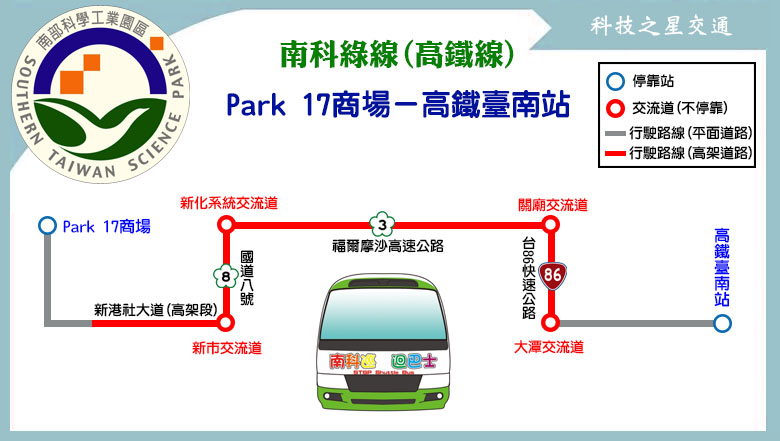
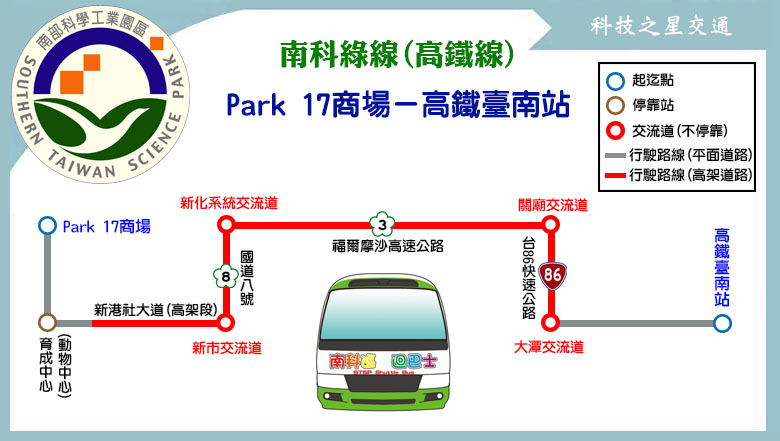
新增站點：南科綠線(育成中心/動物中心)；站位更名：20、紅10(「大眾證卷公司」更名為「永大公園」、「鄭耳鼻喉科」更名為「下巷仔」)

Changed region(s): [[0.7692, 0.1474, 0.9846, 0.4422], [0.0308, 0.7075, 0.0923, 0.9138]]

diff --git a/route/fare_and_time/STSP_green.js b/route/fare_and_time/STSP_green.js
@@ -1,8 +1,13 @@
 // format = [time at the start stop] or
 // [time, other] or
 // [time, start_stop, end_stop, other]
-STSP_green_main_stop_name = ["Park 17商場","高鐵臺南站"];
-STSP_green_main_stop_time_consume = [0, 35];
-STSP_green_important_stop = [0, 1]; // Park 17商場, 高鐵臺南站
-STSP_green_time_go = [["05:55",[[1,-2]]],["08:00"],["10:00"],["14:00"],["16:00"],["18:00"]];
+STSP_green_main_stop_name = ["Park 17商場","育成中心","高鐵臺南站"];
+STSP_green_main_stop_time_consume = [0, 4, 35];
+STSP_green_important_stop = [0, 2]; // Park 17商場, 高鐵臺南站
+STSP_green_time_go = [["05:55",[[2,-2]]],["08:00"],["10:00"],["14:00"],["16:00"],["18:00"]];
+
+// The name of return stops are different
+STSP_green_main_stop_name_return = ["高鐵臺南站","動物中心","Park 17商場"];
+STSP_green_main_stop_time_consume_return = [0, 31, 35];
+STSP_green_important_stop_return = [0, 2]; // 高鐵臺南站, Park 17商場
 STSP_green_time_return = [["06:50"],["08:50"],["10:50"],["14:50"],["16:50"],["18:50"]];

diff --git a/route/fare_and_time/red_10.js b/route/fare_and_time/red_10.js
@@ -5,7 +5,7 @@ red_10_interval_stop = [
 ["歸仁交流道","修元堂","看東里","善化寺","歸仁文化中心","歸仁市場","歸仁公所","後市","姓李仔","南保","南興里","上帝廟"], // 歸仁
 ["貝汝流通","林仔","義林一街口","慈濟臺南分會","鐘厝","仁義里","仁德","仁德公所","一甲廟路口"], // 仁德
 ["漢平公司","土庫","太子廟"], // 太子廟
-["大灣","大灣天公廟","鄭耳鼻喉科","楊慶祥中醫診所","大眾證券公司"], // 大灣
+["大灣","大灣天公廟","下巷仔","楊慶祥中醫診所","永大公園"], // 大灣
 ["國通汽車公司","永康(永大路)","永大路埔聖街口","埔園里","永康火車站","自強路口","永康農會","臺南大學附中"], // 永康
 ["二王","康福新城","中興","南工社區","臺南高工"], // 二王
 ["大橋","奇美醫院"] // 奇美醫院

diff --git a/STSP/STSP_green.html b/STSP/STSP_green.html
@@ -41,7 +41,7 @@
 		</div>\
 	</div>\
 </div>');
-	block_time_schedule('Park 17商場','高鐵臺南站','<h1><font color="red">例假日及國定假日不行駛</font></h1>');
+	block_time_schedule_diffreturn('Park 17商場-&gt;高鐵臺南站','高鐵臺南站-&gt;Park 17商場','<h1><span style="color: red;">例假日及國定假日不行駛</span></h1>');
 	block_transfer(transfer_park17 + transfer_hsr_tainan_station);
 	block_copyright();
 </script>
